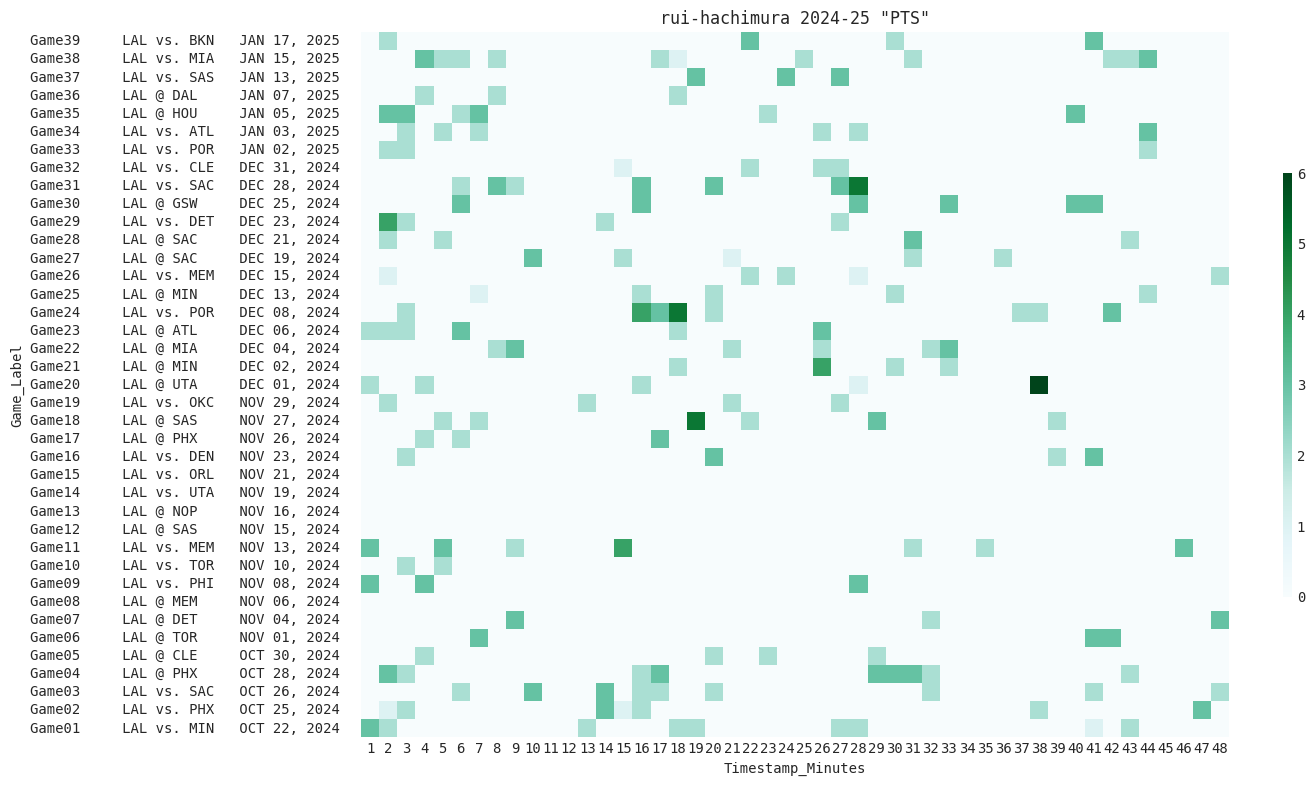
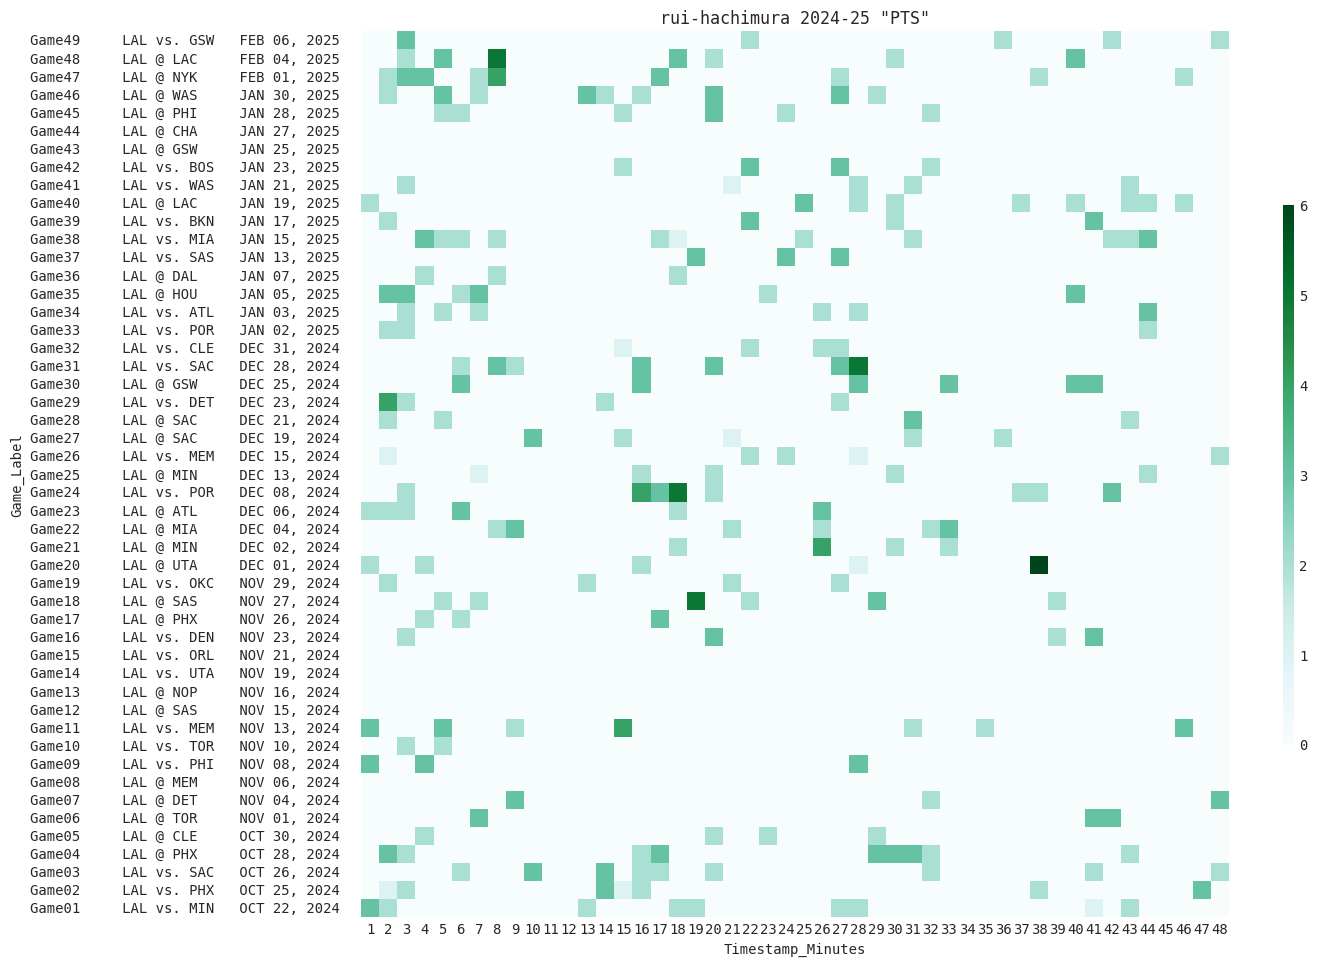
Update the result.

diff --git a/2024-25.md b/2024-25.md
@@ -1,5 +1,5 @@
 ## 活躍状況 2024-25 シーズン
-> Last Update: 2025-01-18 19:12:14
+> Last Update: 2025-02-08 22:35:37
 - (注)オーバータイム時の情報は対象外です。
 
 ### 八村塁 Rui Hachimura
